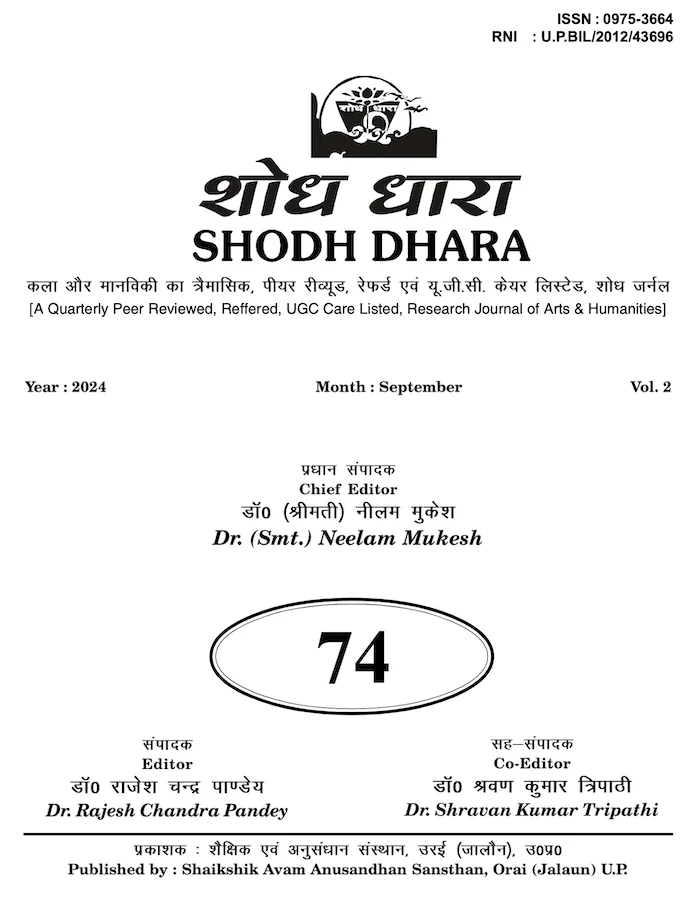
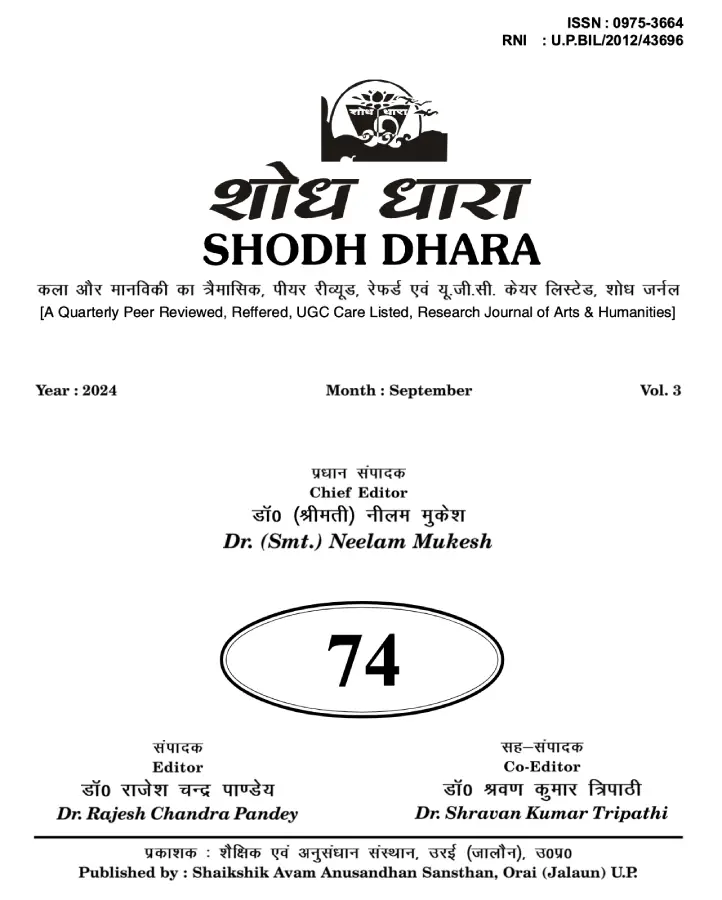
Update cover and year for issue 74

diff --git a/src/data/issues.ts b/src/data/issues.ts
@@ -14,7 +14,7 @@ export const issues: Issue[] = [
     number: 74,
     pdfUrl: "https://drive.google.com/file/d/1UFqjmBfvgibcvd3eOmCiv1vYjMaNizSS/view?usp=sharing",
     coverUrl: "/covers/74-cover.webp",
-    year: "2025",
+    year: "2024",
   },
   {
     number: 73,
